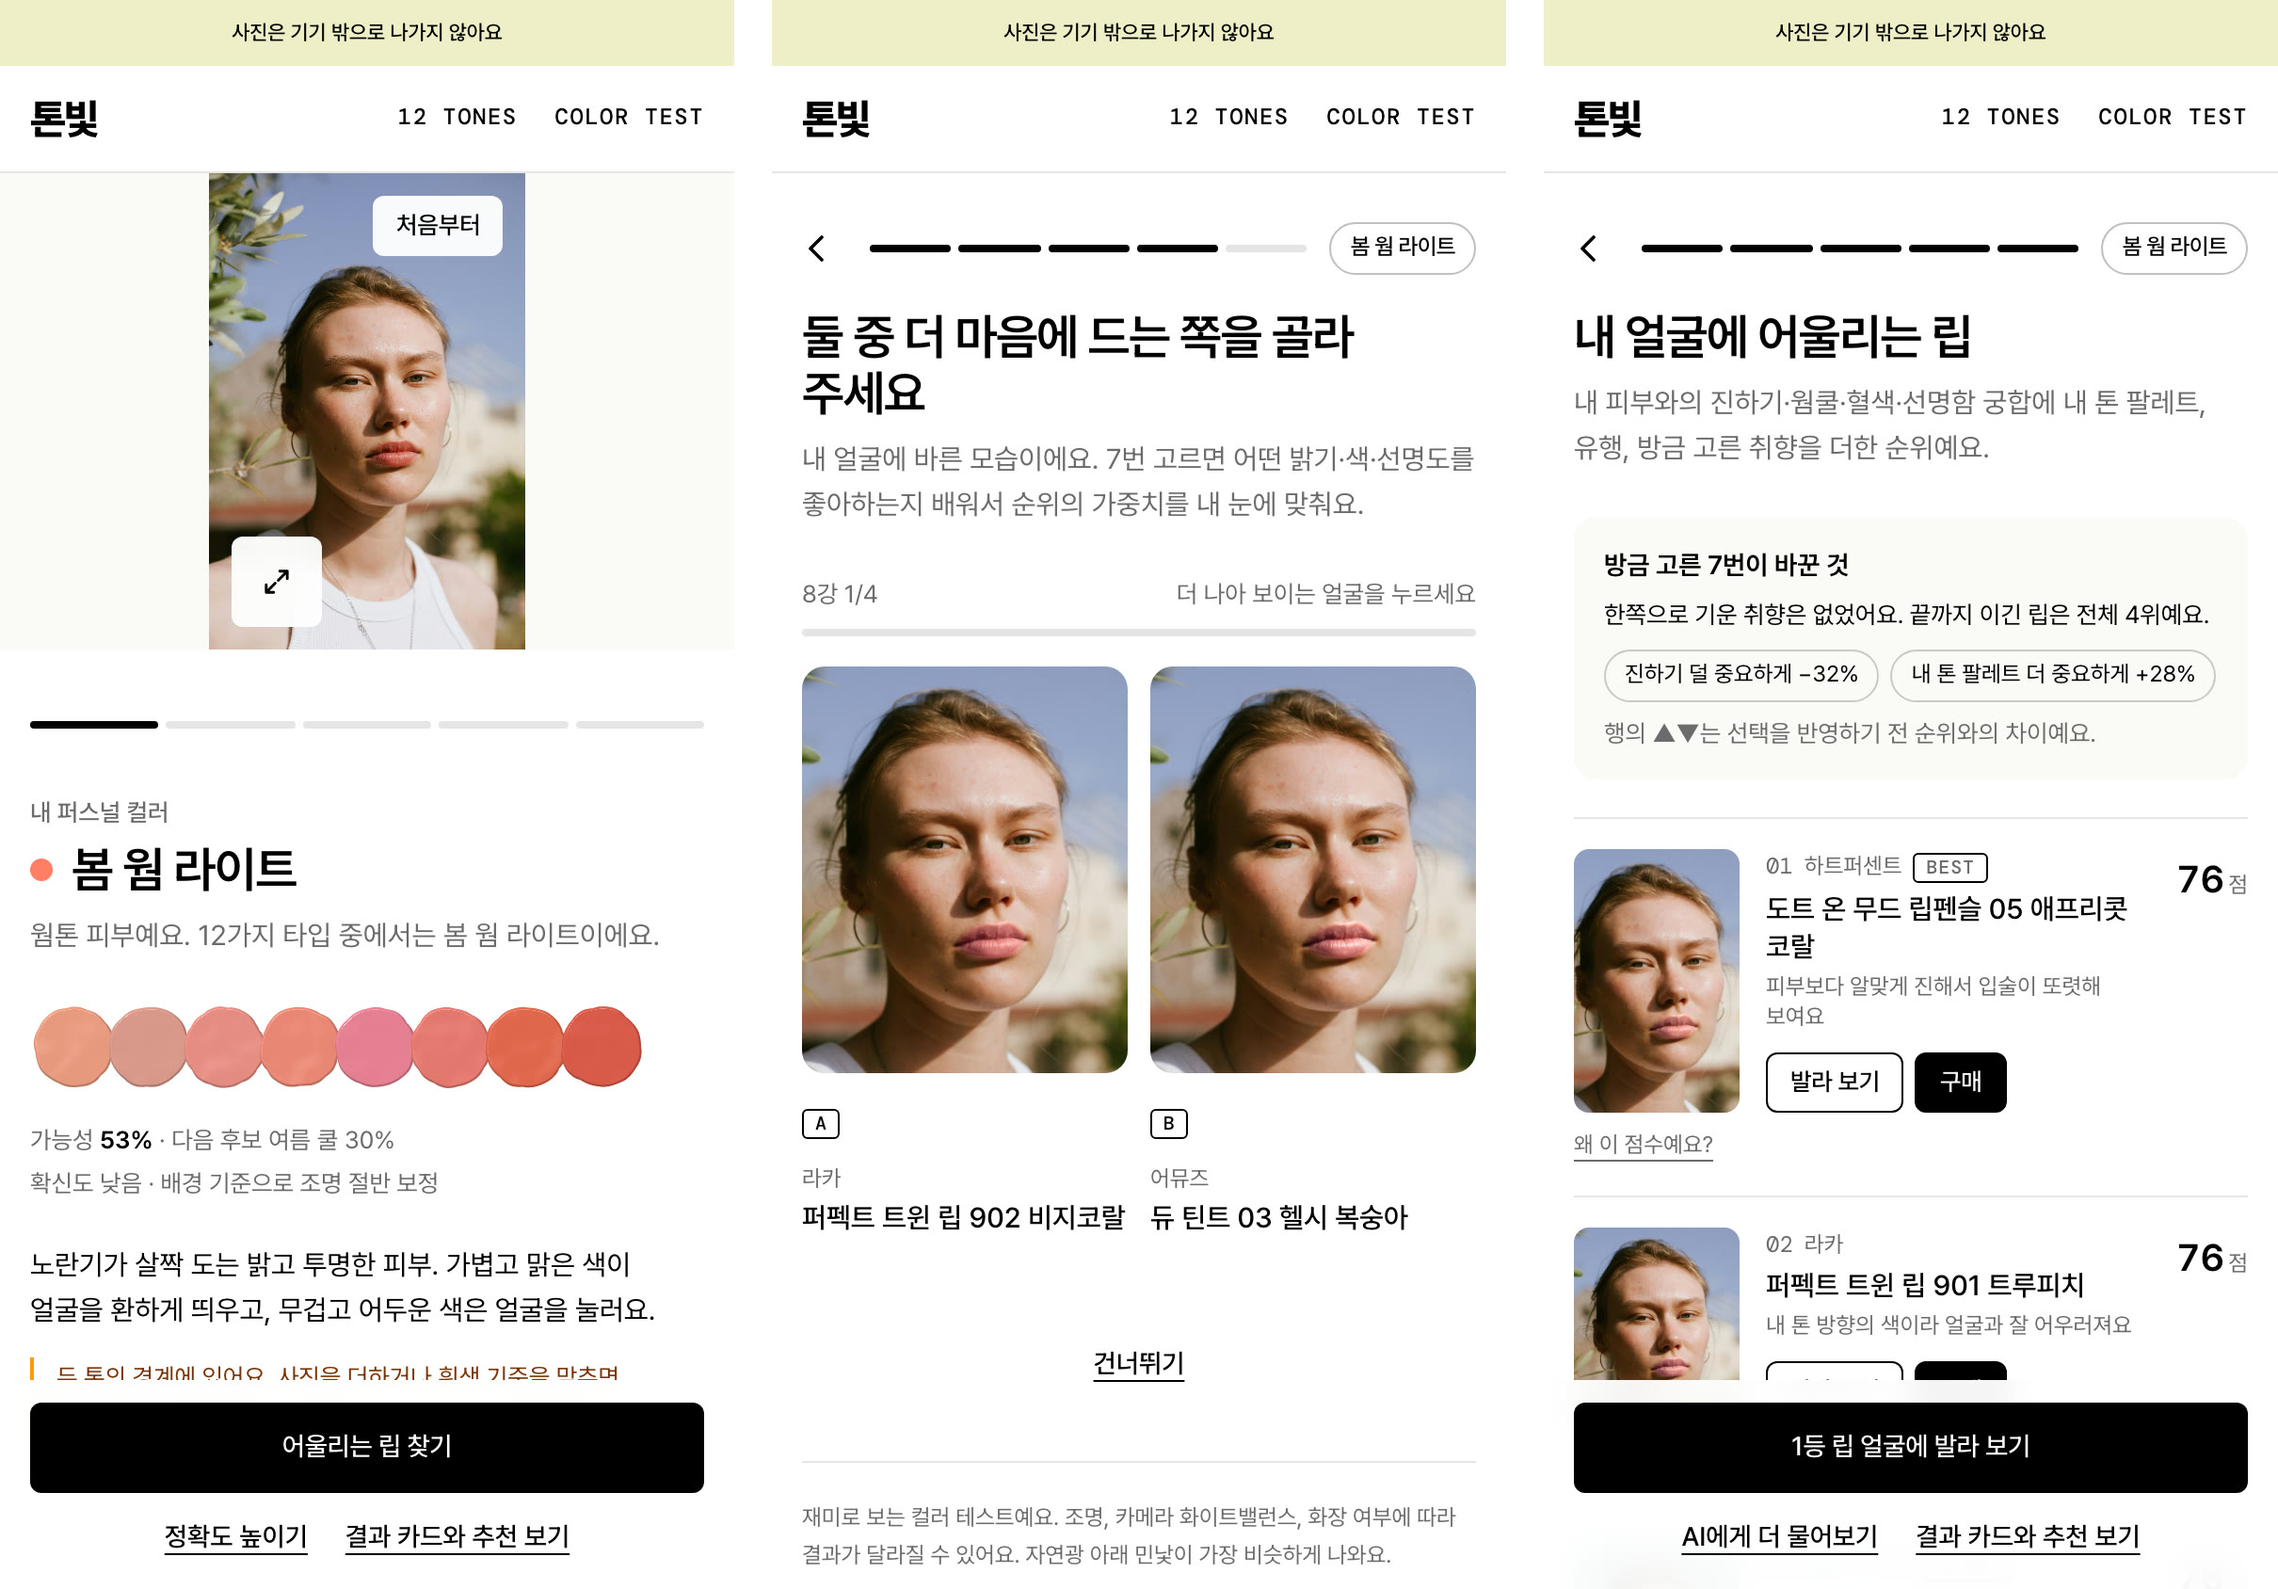
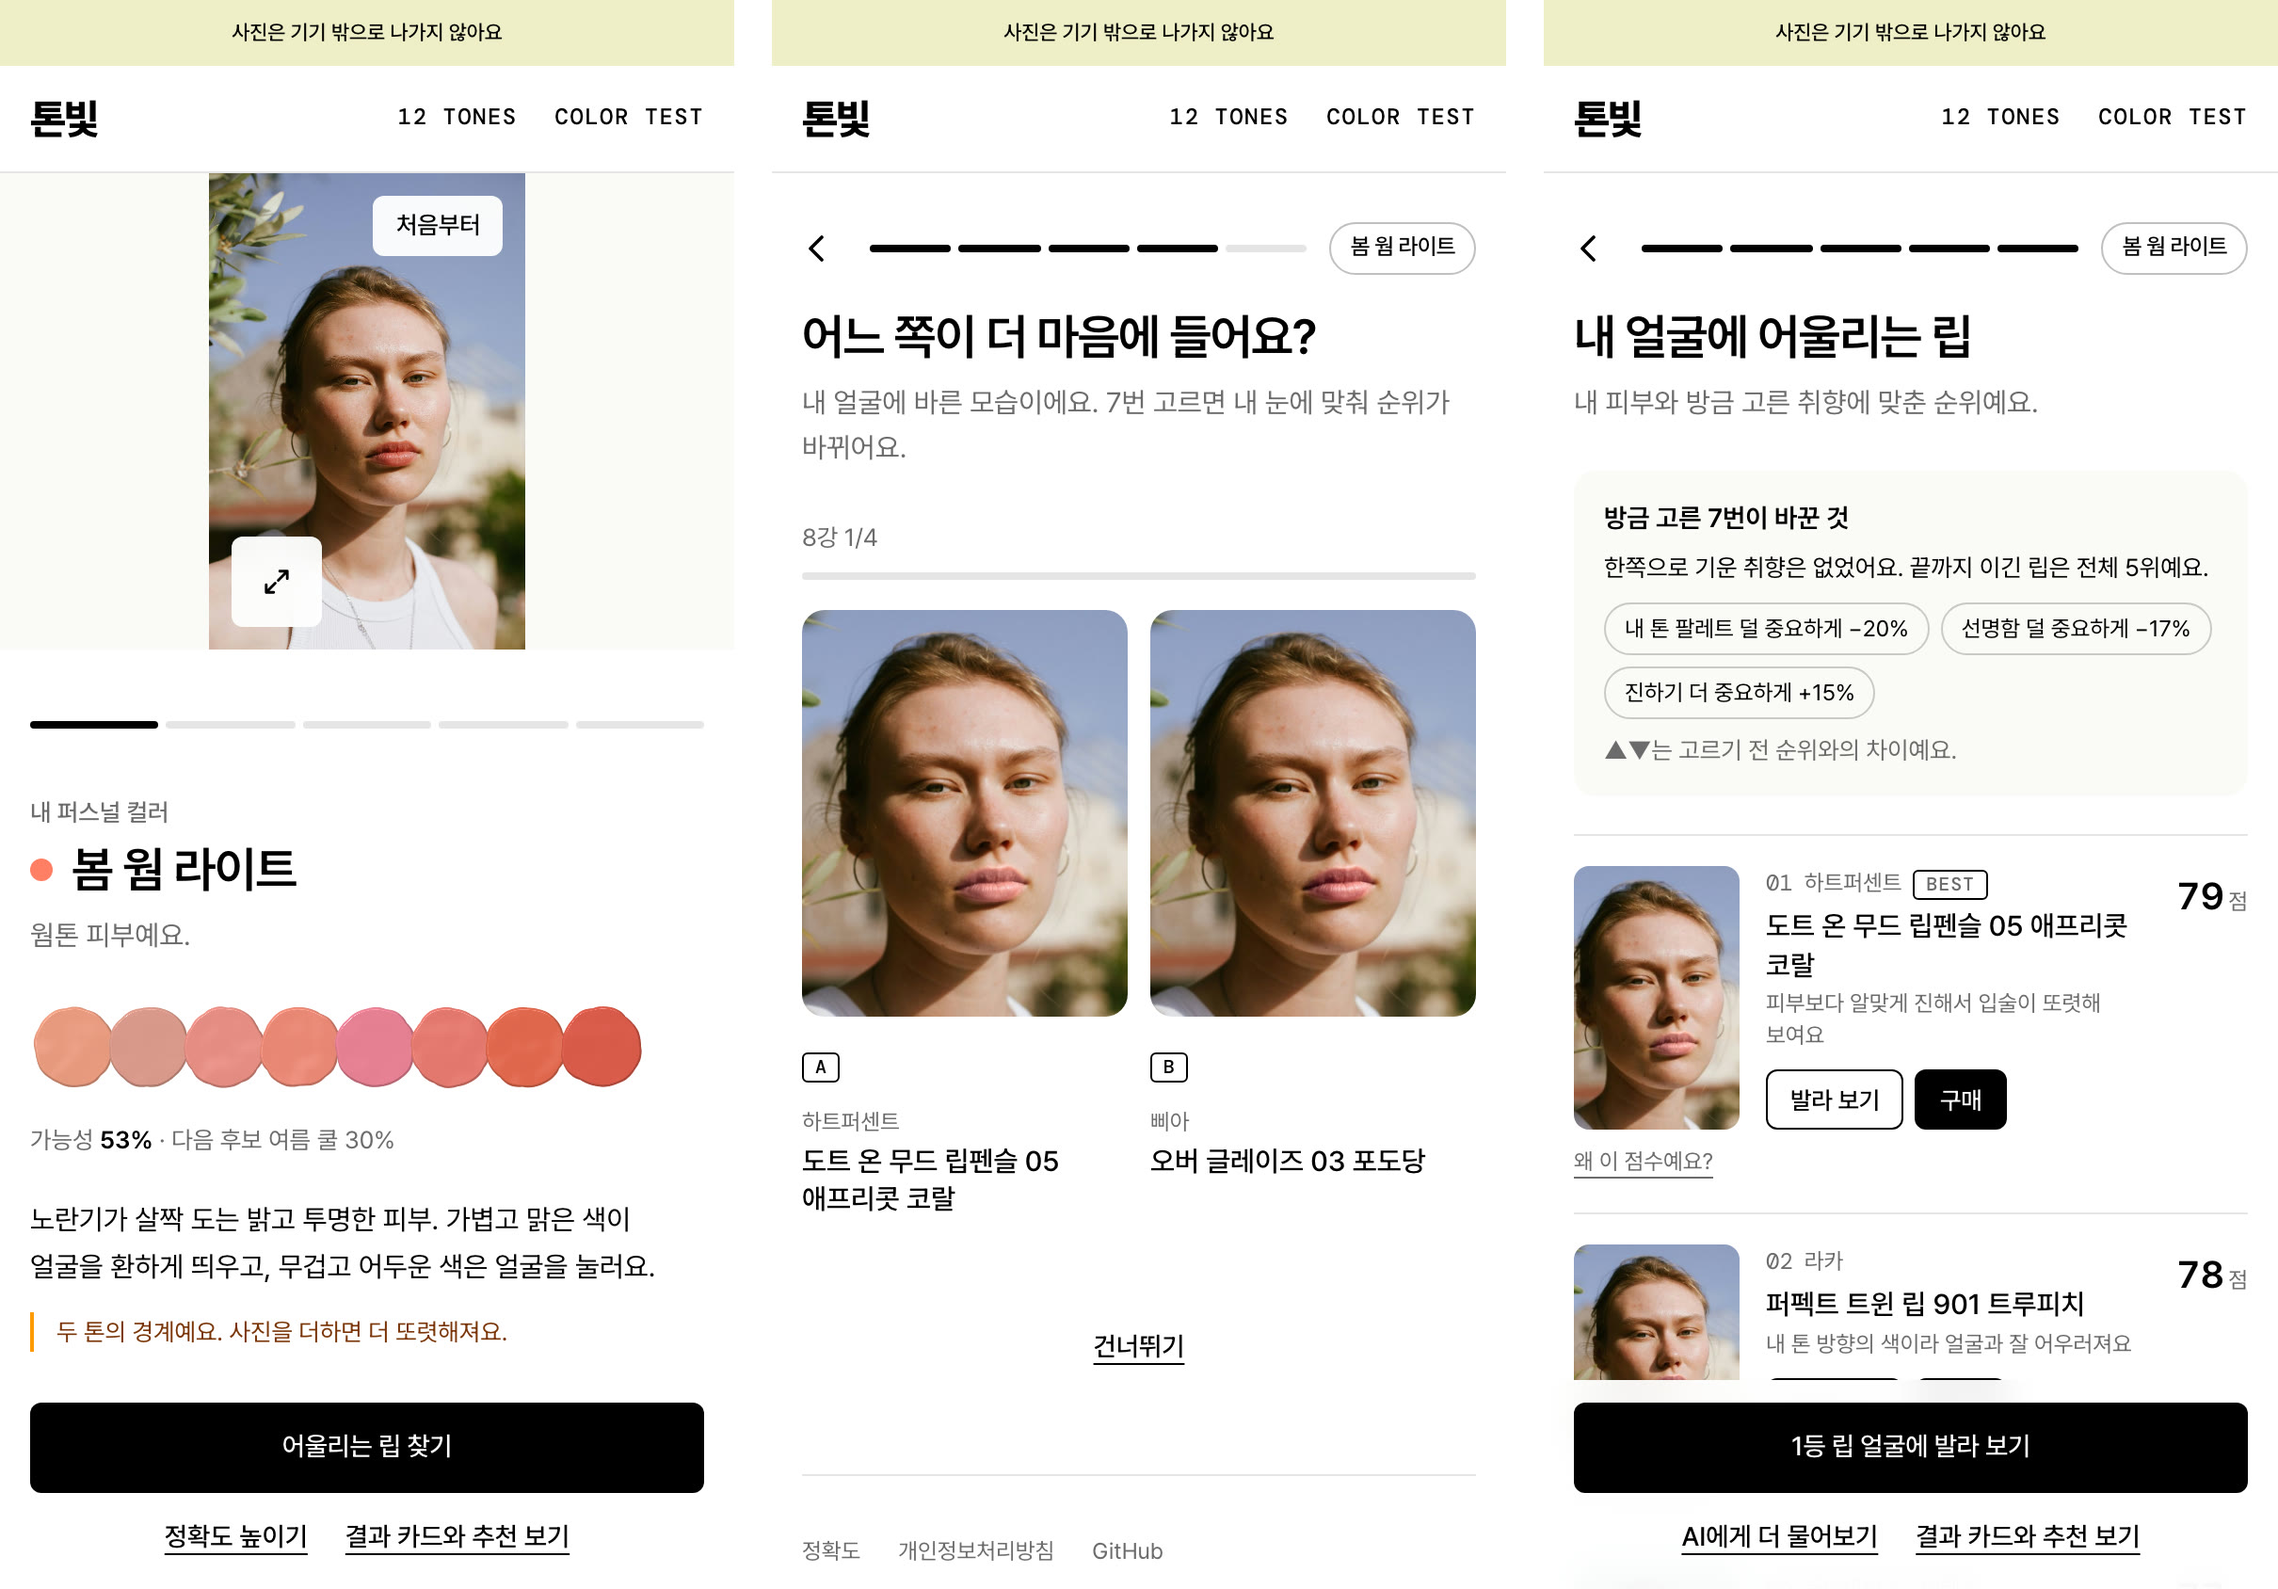
Post 31: refresh screenshots after the copy cleanup, add the cleanup to the fixes table

diff --git a/_posts/2026-11-04-31.md b/_posts/2026-11-04-31.md
@@ -158,10 +158,11 @@ description: "셀카 한 장으로 퍼스널 컬러를 가늠하는 서비스를
 | 진단이 끝났는데 **내 퍼스널 컬러가 뭔지** 한눈에 안 들어왔다. 사진이 화면을 거의 다 차지하고, 시즌 이름은 그 밑에 작게 있었다. | 폰에서는 사진을 줄이고, 그 자리에 "내 퍼스널 컬러"라는 제목과 시즌 색 점, 웜톤인지 쿨톤인지 한 문장을 올렸다. 다음 화면부터는 오른쪽 위에 "봄 웜 라이트" 같은 표시가 계속 따라다닌다. |
 | 둘 중 고르기를 일곱 번 하고 나서도 **그게 결과에 뭘 바꿨는지** 알 수 없었다. 그냥 순위가 나올 뿐이었다. | 순위 맨 위에 "방금 고른 7번이 바꾼 것"이라는 상자를 뒀다. 내가 고른 경향을 "더 진한 색을 골랐어요"처럼 한 줄로 말해 주고, 비중이 어떻게 바뀌었는지를 "진하기 더 중요하게 +16%"처럼 보여 주고, 각 순위 옆에 고르기 전보다 몇 계단 오르내렸는지 ▲▼로 붙였다. |
 | **항목별 점수가 안 읽혔다.** 막대가 작고 전부 검은색이었고, 항목 이름이 "치아", "인상"처럼 무슨 뜻인지 알 수 없는 말이었다. | 항목 이름을 버리고 "피부보다 알맞게 진해요" 같은 문장으로 바꿨다. 막대는 키우고, 점수에 따라 초록·노랑·분홍으로 칠하고, 퍼센트를 붙였다. "치아" 항목은 누구에게나 차가운 색을 조금씩 밀어 주는 항목이라 아예 뺐다. |
+| **화면마다 글이 너무 많았다.** 모든 화면 아래에 같은 안내문과 측정 숫자가 반복됐고, "확신도", "보정 기준" 같은 말이 그대로 노출됐다. | 반복되는 안내는 내 톤 화면과 정확도 높이기 화면에만 남기고, 용어와 같은 말의 두 번째 문장을 뺐다. 글자 크기는 그대로 두고, 한 화면에 꼭 필요한 문장만 남겼다. |
 {: data-ke-align="alignLeft"}
 
 <figure class="imageblock alignCenter" markdown="1">
-![내 립 화면의 선택 반영 설명과 항목별 막대](/assets/posts/31/bars.jpg){: width="390"}
+![내 립 화면의 항목별 막대](/assets/posts/31/bars.jpg){: width="390"}
 </figure>
 
 ---
